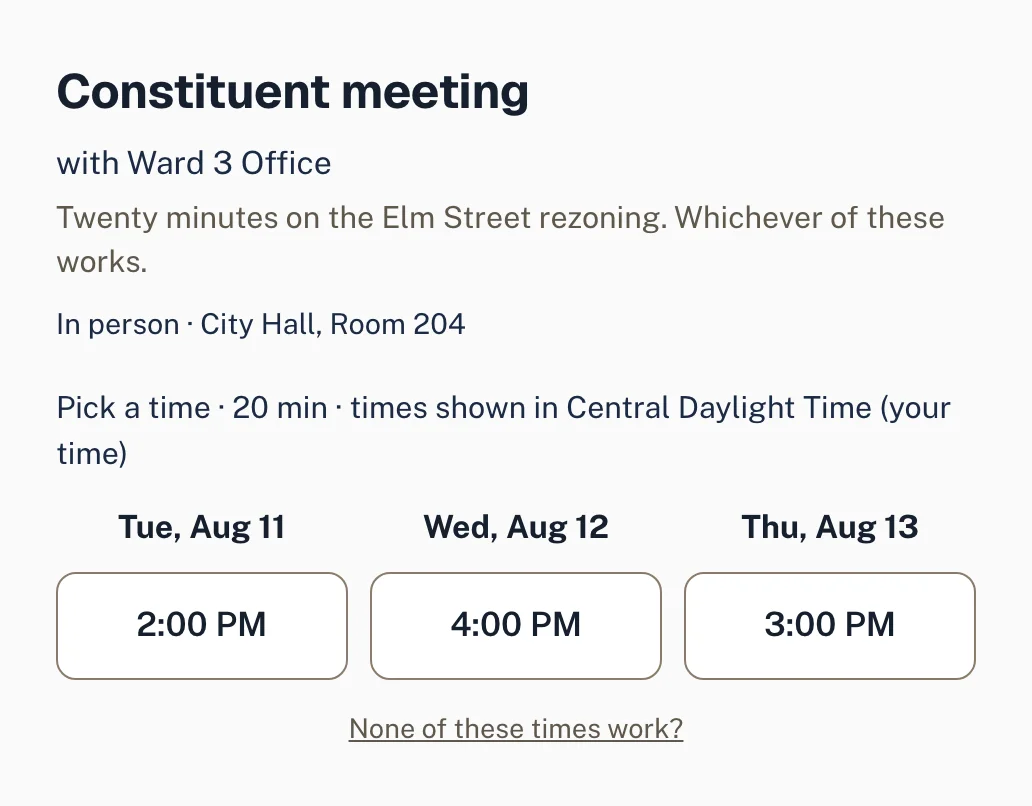
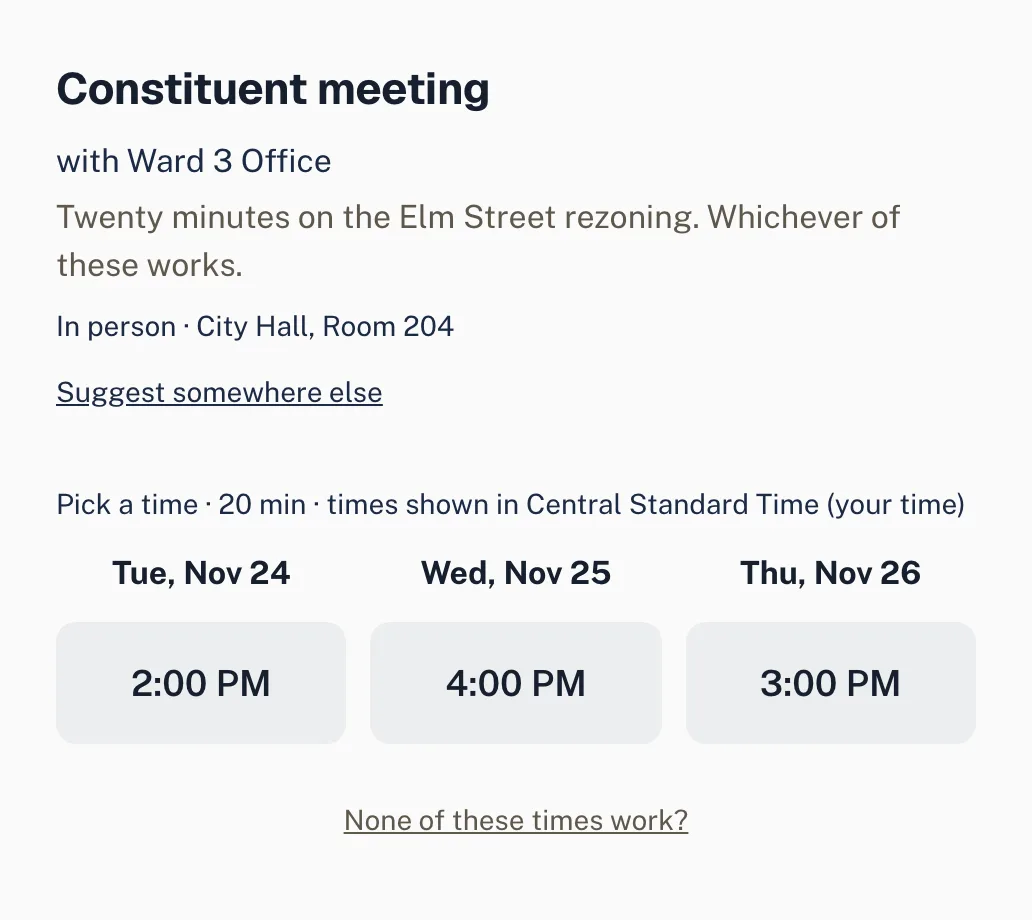
Show the redesigned app in every Hotline screen
The Plate (desktop and phone), the booking page in both themes and the
month calendar are captured from the app as it now ships, signed in as the
same test host whose organization backs the shift screens; its meetings and
proposals are seeded with made-up @example.com people. The shift screens
are retaken with the week published, where the last capture showed drafts.

The booking card is now 1032×920, up from 806, because the page offers
"Suggest somewhere else" under the location; its declared size follows.
The Plate's address bar names the route it shows, /meetings/upcoming. Alt
text for the Plate and the roster describes what they now show, in every
language.

diff --git a/src/app/[locale]/solutions/hotline/page.tsx b/src/app/[locale]/solutions/hotline/page.tsx
@@ -34,7 +34,7 @@ export default async function Hotline() {
   const rotaShifts: Shot = { src: "/products/hotline/rota-schedule.webp", width: 1600, height: 1025, alt: t("altRotaShifts") };
   const rotaCoverage: Shot = { src: "/products/hotline/rota-coverage.webp", width: 1600, height: 1025, alt: t("altRotaCoverage") };
   // The page a guest lands on from a Hotline link, from the product's own demo data.
-  const booking = { width: 1032, height: 806, alt: t("altBooking") };
+  const booking = { width: 1032, height: 920, alt: t("altBooking") };
 
   return (
     <div className="home product">
@@ -55,7 +55,7 @@ export default async function Hotline() {
             </a>
           </div>
         </div>
-        <DeviceStage desktop={plate} phone={platePhone} address="hotlinecal.com/meetings" priority />
+        <DeviceStage desktop={plate} phone={platePhone} address="hotlinecal.com/meetings/upcoming" priority />
       </section>
 
       {/* One screen per row, each named in a short title and one plain sentence.

diff --git a/CHANGELOG.md b/CHANGELOG.md
@@ -30,6 +30,11 @@ Categories: **Added**, **Changed**, **Deprecated**, **Removed**, **Fixed**,
 
 ### Changed
 
+- **Every screen on the Hotline page now shows the redesigned app.** The Plate
+  on desktop and phone, the booking page in both themes and the month calendar
+  are new captures, and the shift screens are retaken with the week published
+  rather than in draft. The booking card is taller than before, because the
+  page now offers "Suggest somewhere else" under the location.
 - **The Hotline page's shift screens show the redesigned app.** "Schedule the
   shifts" and "See who's coming" are new captures from the app as it now
   ships, with its new wordmark: a week's roster, and the same week as a
